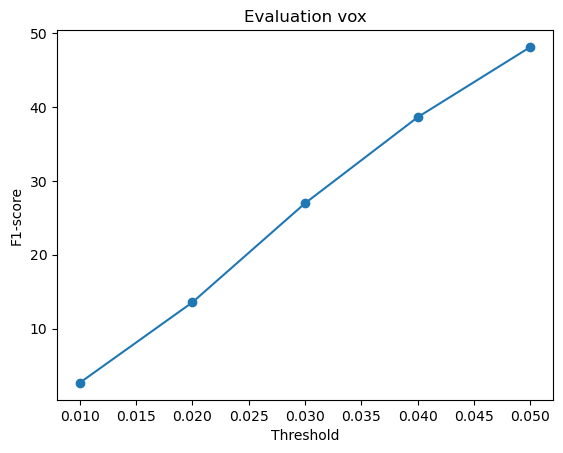
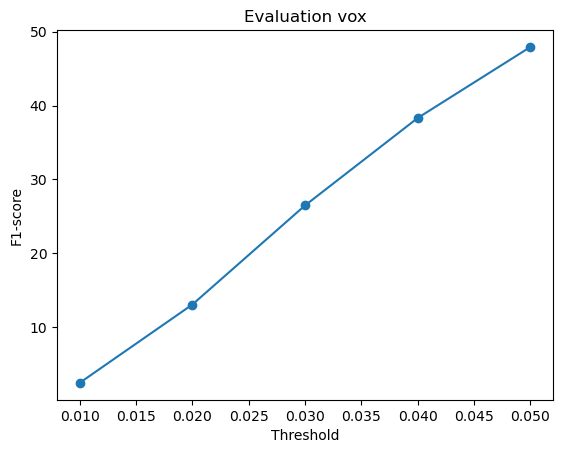
updated voxel arch

diff --git a/HW2/eval_model.py b/HW2/eval_model.py
@@ -17,7 +17,7 @@ import torch.nn.functional as F
 def get_args_parser():
     parser = argparse.ArgumentParser('Singleto3D', add_help=False)
     parser.add_argument('--arch', default='convnext_small', type=str)
-    parser.add_argument('--vis_freq', default=1000, type=int)
+    parser.add_argument('--vis_freq', default=10, type=int)
     parser.add_argument('--batch_size', default=1, type=int)
     parser.add_argument('--num_workers', default=0, type=int)
     parser.add_argument('--type', default='vox', choices=['vox', 'point', 'mesh'], type=str)
@@ -27,7 +27,7 @@ def get_args_parser():
     parser.add_argument('--load_checkpoint', action='store_true')
     parser.add_argument('--device', default='cuda', type=str)
     parser.add_argument('--load_feat', action='store_true', default=True)
-    parser.add_argument('--checkpoint_path', default='./checkpoints/point_1.pth', type=str)
+    parser.add_argument('--checkpoint_path', default='./checkpoints/vox_1.pth', type=str)
     return parser
 
 def preprocess(feed_dict, args):
@@ -184,17 +184,6 @@ def evaluate_model(args):
         avg_f1_score.append(torch.tensor([metrics["F1@%f" % t] for t in thresholds]))
 
         print("[%4d/%4d]; ttime: %.0f (%.2f, %.2f); F1@0.05: %.3f; Avg F1@0.05: %.3f" % (step, max_iter, total_time, read_time, iter_time, f1_05, torch.tensor(avg_f1_score_05).mean()))
-
-
-        # # metrics at custom threshold
-        # f1 = metrics[f'F1@{thresholds[-1]}0000']
-        # avg_f1_score.append(f1)
-        # avg_p_score.append(torch.tensor([metrics["Precision@%f" % t] for t in thresholds]))
-        # avg_r_score.append(torch.tensor([metrics["Recall@%f" % t] for t in thresholds]))
-        # avg_f1_score.append(torch.tensor([metrics["F1@%f" % t] for t in thresholds]))
-
-        # print("[%4d/%4d]; ttime: %.0f (%.2f, %.2f); F1@%.2f: %.3f; Avg F1@%.2f: %.3f" % (step, max_iter, total_time, read_time, iter_time, thresholds[-1], f1, thresholds[-1], torch.tensor(avg_f1_score).mean()))
-
 
     avg_f1_score = torch.stack(avg_f1_score).mean(0)
 

diff --git a/HW2/model.py b/HW2/model.py
@@ -85,15 +85,18 @@ class SingleViewto3D(nn.Module):
         decoder = nn.Sequential(
             nn.Linear(512, 128*4*4*4),  # Map the input features to the volume of the voxel grid
             View((-1, 128, 4, 4, 4)),  # Reshape the tensor to the right size
-            nn.ReLU(),
-            nn.ConvTranspose3d(128, 64, kernel_size=4, stride=2, padding=1),
-            nn.BatchNorm3d(64),
-            nn.ReLU(),
-            nn.ConvTranspose3d(64, 32, kernel_size=4, stride=2, padding=1),
-            nn.ReLU(),
+            nn.GELU(),
+            nn.ConvTranspose3d(128, 256, kernel_size=4, stride=2, padding=1, bias=False),
+            nn.BatchNorm3d(256),
+            nn.GELU(),
+            nn.ConvTranspose3d(256, 384, kernel_size=4, stride=2, padding=1, bias=False),
+            nn.BatchNorm3d(384),
+            nn.GELU(),
+            nn.ConvTranspose3d(384, 256, kernel_size=4, stride=2, padding=1, bias=False),
+            nn.GELU(),
             # NOTE: the output of the last layer should be a 3D volume of size 32x32x32
             # Here, we reduce the number of channels to 1 to get output shape = (b x 1 x 32 x 32 x 32)
-            nn.ConvTranspose3d(32, 1, kernel_size=4, stride=2, padding=1),
+            nn.ConvTranspose3d(256, 96, kernel_size=4, stride=2, padding=1, bias=False),
             nn.Sigmoid()  # Output probabilities between 0 and 1
         )
         return decoder
@@ -105,10 +108,10 @@ class SingleViewto3D(nn.Module):
         """
         decoder = nn.Sequential(
             nn.Linear(512, 1024),  # Map the input features to the volume of the voxel grid
-            nn.ReLU(),
+            nn.GELU(),
             nn.Linear(1024, 1024),
             nn.BatchNorm1d(1024),
-            nn.ReLU(),
+            nn.GELU(),
             nn.Linear(1024, self.n_point*3),
             # split the output into (b x n_point x 3)
             View((-1, self.n_point, 3))

diff --git a/HW2/train_model.py b/HW2/train_model.py
@@ -24,7 +24,7 @@ def get_args_parser():
     )
     parser.add_argument("--n_points", default=1000, type=int)
     parser.add_argument("--w_chamfer", default=1.0, type=float)
-    parser.add_argument("--w_smooth", default=0.1, type=float)
+    parser.add_argument("--w_smooth", default=1.2, type=float)
     parser.add_argument("--save_freq", default=200, type=int)
     parser.add_argument("--load_checkpoint", action="store_true")
     parser.add_argument('--load_feat', action='store_true')
